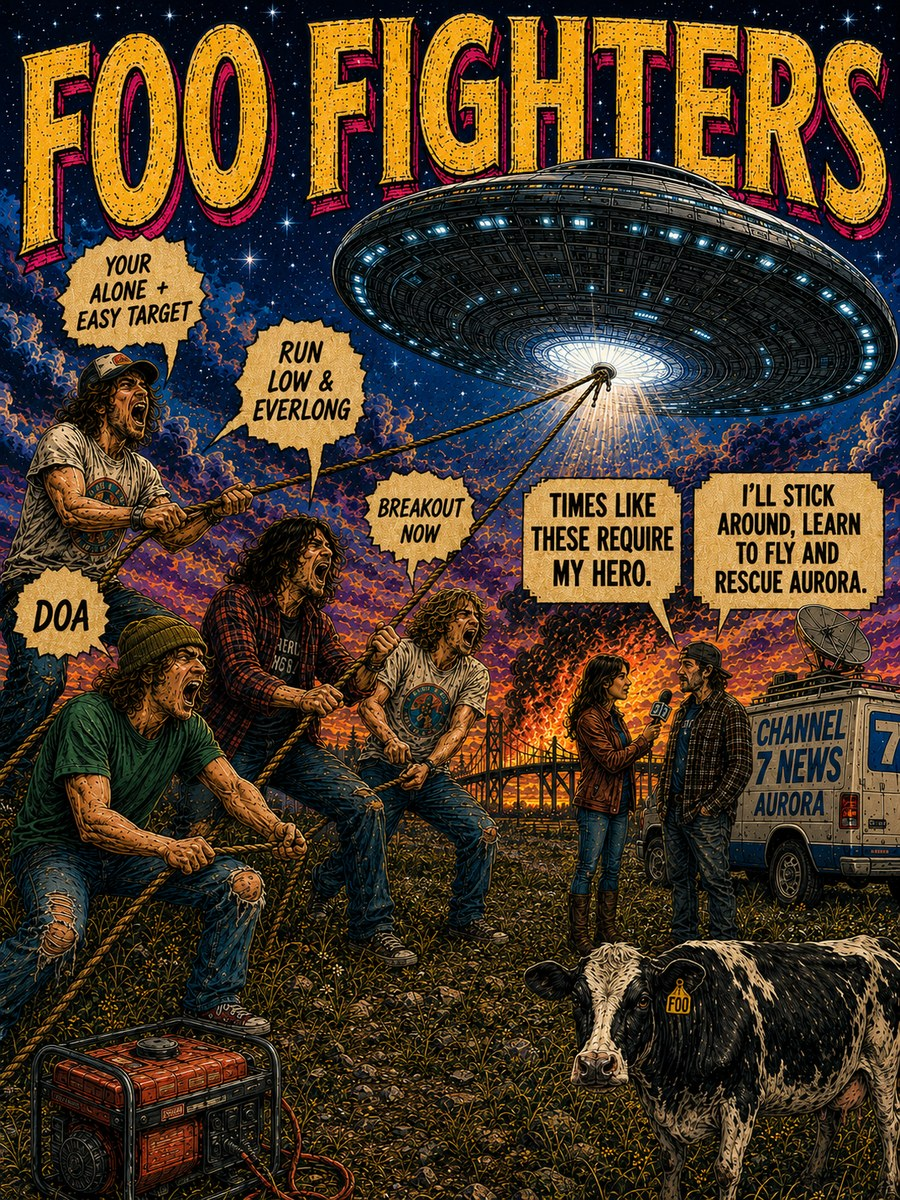
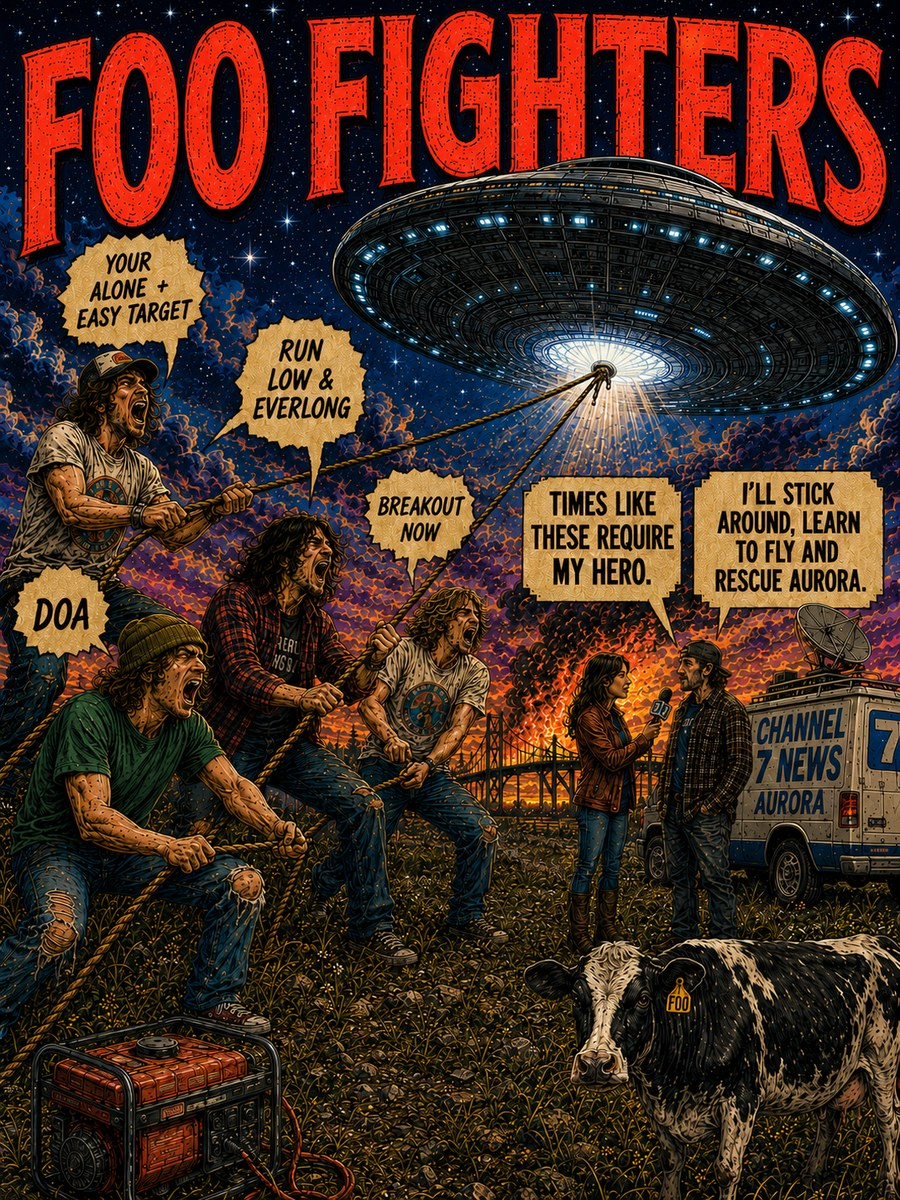
SFS: refresh + expand vault poster art from current Album Art folder (62 vaults now have posters); rebuild ART map, bump img cache-bust v5 + SW v16

diff --git a/index.html b/index.html
@@ -796,7 +796,7 @@ function coverHTML(v,label){
  var e=eraOf(v);
  var badge=v.badge==='free'?'<div class="badge free">Free</div>':'';
  if(v.sp) return '<div class="cover sptile" style="--p:'+v.sp.p+';--s:'+v.sp.s+';--t:'+v.sp.t+'">'+badge+'<div class="spcity">'+v.sp.city+'</div><div class="spteam'+(v.sp.fit?" fit":"")+'">'+v.sp.team+'</div><div class="splbl">SuperFan Vault</div></div>';
- if(ART[v.id]) return '<div class="cover artcover">'+badge+'<img class="artimg" src="'+ART[v.id]+'?v=4" alt="" draggable="false"></div>';
+ if(ART[v.id]) return '<div class="cover artcover">'+badge+'<img class="artimg" src="'+ART[v.id]+'?v=5" alt="" draggable="false"></div>';
  if(e==='neon') return streamTileHTML(v,label);
  return '<div class="cover cdcover">'+badge+'<img class="obj named cdfill" src="tile-'+v.id+'.png?v=7" alt="" draggable="false"'
   +' onerror="this.onerror=null;this.className=\'obj cdfill'+(e==='cassette'?' cassette':'')+'\';this.src=\'obj-'+e+'.png?v=7\';"></div>';
@@ -814,7 +814,7 @@ function hashStr(s){var x=5381;for(var i=0;i<s.length;i++)x=((x*33)^s.charCodeAt
 var FUN=[['#FF4FA3','255,79,163'],['#37E0FF','55,224,255'],['#9BE23B','155,226,59'],['#FF8A3D','255,138,61'],['#A56BFF','165,107,255'],['#2DD4BF','45,212,191'],['#FF5CF0','255,92,240'],['#FFC53D','255,197,61'],['#FF6B5E','255,107,94'],['#5AA9FF','90,169,255'],['#3DDB84','61,219,132'],['#C86BFF','200,107,255']];
 var COLORMAP={"taylorswift": ["#D9A3B3", "217,163,179"], "arianagrande": ["#E07A5F", "224,122,95"], "edsheeran": ["#36B0AC", "54,176,172"], "rihanna": ["#7FB3D5", "127,179,213"], "billieeilish": ["#F4F4F6", "244,244,246"], "brunomars": ["#E07A5F", "224,122,95"], "postmalone": ["#7FB3D5", "127,179,213"], "coldplay": ["#C99E4A", "201,158,74"], "dualipa": ["#C4C8CC", "196,200,204"], "ladygaga": ["#C99E4A", "201,158,74"], "maroon5": ["#C43E3E", "196,62,62"], "beyonce": ["#D9A3B3", "217,163,179"], "harrystyles": ["#C4C8CC", "196,200,204"], "onedirection": ["#A87042", "168,112,66"], "adele": ["#E07A5F", "224,122,95"], "katyperry": ["#7FB3D5", "127,179,213"], "selenagomez": ["#F4F4F6", "244,244,246"], "justintimberlake": ["#D9A3B3", "217,163,179"], "newpopqueens": ["#C4C8CC", "196,200,204"], "eminem": ["#F4F4F6", "244,244,246"], "biggie": ["#36B0AC", "54,176,172"], "morganwallen": ["#5B8A5B", "91,138,91"], "zachbryan": ["#F4F4F6", "244,244,246"], "lukecombs": ["#36B0AC", "54,176,172"], "chrisstapleton": ["#E07A5F", "224,122,95"], "lukebryan": ["#7FB3D5", "127,179,213"], "jasonaldean": ["#C99E4A", "201,158,74"], "jellyroll": ["#C43E3E", "196,62,62"], "timmcgraw": ["#C4C8CC", "196,200,204"], "kennychesney": ["#A87042", "168,112,66"], "codyjohnson": ["#D9A3B3", "217,163,179"], "carrieunderwood": ["#C99E4A", "201,158,74"], "ellalangley": ["#D9A3B3", "217,163,179"], "shaboozey": ["#5B8A5B", "91,138,91"], "laineywilson": ["#E07A5F", "224,122,95"], "faithhill": ["#7FB3D5", "127,179,213"], "rhcp": ["#C43E3E", "196,62,62"], "metallica": ["#A87042", "168,112,66"], "nirvana": ["#5B8A5B", "91,138,91"], "greenday": ["#C43E3E", "196,62,62"], "oasis": ["#E07A5F", "224,122,95"], "foo": ["#A87042", "168,112,66"], "pearljam": ["#5B8A5B", "91,138,91"], "smashingpumpkins": ["#C43E3E", "196,62,62"], "stp": ["#A87042", "168,112,66"], "ate": ["#5B8A5B", "91,138,91"], "queen": ["#7FB3D5", "127,179,213"], "beatles": ["#C99E4A", "201,158,74"], "fleetwoodmac": ["#C43E3E", "196,62,62"], "stones": ["#C4C8CC", "196,200,204"], "ccr": ["#A87042", "168,112,66"], "bonjovi": ["#C43E3E", "196,62,62"], "bowie": ["#D9A3B3", "217,163,179"], "u2": ["#5B8A5B", "91,138,91"], "ledzeppelin": ["#A87042", "168,112,66"], "billyjoel": ["#F4F4F6", "244,244,246"], "springsteen": ["#36B0AC", "54,176,172"], "eagles": ["#E07A5F", "224,122,95"], "hendrix": ["#7FB3D5", "127,179,213"], "tompetty": ["#C99E4A", "201,158,74"], "thewho": ["#5B8A5B", "91,138,91"], "gratefuldead": ["#C43E3E", "196,62,62"], "dmb": ["#C4C8CC", "196,200,204"], "fthc": ["#A87042", "168,112,66"]};
 var SDATA={"coldplay":{"song":"Yellow","lore":"London, England","album":"Parachutes","last":"Martin"},"maroon5":{"song":"Sugar","lore":"Los Angeles, CA","album":"Songs About Jane","last":"Levine"},"dmb":{"song":"Ants Marching","lore":"Charlottesville, VA","album":"Under the Table and Dreaming","last":"Matthews"},"fthc":{"song":"Recovery","lore":"Winchester, England","album":"Sleep Is for the Week","last":"Turner"},"pearljam":{"song":"Even Flow","lore":"Seattle, WA","album":"Ten","last":"Vedder"},"nirvana":{"song":"Smells Like Teen Spirit","lore":"Aberdeen, WA","album":"Bleach","last":"Cobain"},"foo":{"song":"Everlong","lore":"Seattle, WA","album":"The Colour and the Shape","last":"Grohl"},"springsteen":{"song":"Born to Run","lore":"Freehold, NJ","album":"Greetings from Asbury Park, N.J.","last":"Springsteen"},"grunge90s":{"song":"Smells Like Teen Spirit","lore":"Seattle, WA","album":"Nevermind","last":"Cobain"},"taylorswift": {"song": "Shake It Off", "lore": "Reading, PA", "album": "1989", "last": "Swift"}, "arianagrande": {"song": "7 Rings", "lore": "Boca Raton, FL", "album": "Thank U, Next", "last": "Grande"}, "edsheeran": {"song": "Shape of You", "lore": "Halifax, England", "album": "÷ Divide", "last": "Sheeran"}, "rihanna": {"song": "Umbrella", "lore": "Saint Michael, Barbados", "album": "Good Girl Gone Bad", "last": "Rihanna"}, "billieeilish": {"song": "Bad Guy", "lore": "Los Angeles, CA", "album": "When We Fall Asleep", "last": "Eilish"}, "brunomars": {"song": "24K Magic", "lore": "Honolulu, HI", "album": "24K Magic", "last": "Mars"}, "postmalone": {"song": "Circles", "lore": "Syracuse, NY", "album": "Hollywood's Bleeding", "last": "Malone"}, "dualipa": {"song": "Levitating", "lore": "London, England", "album": "Future Nostalgia", "last": "Lipa"}, "ladygaga": {"song": "Bad Romance", "lore": "New York, NY", "album": "The Fame Monster", "last": "Gaga"}, "beyonce": {"song": "Single Ladies", "album": "Sasha Fierce", "last": "Knowles"}, "harrystyles": {"song": "As It Was", "album": "Harry's House", "last": "Styles"}, "onedirection": {"song": "Story of My Life", "album": "Midnight Memories", "last": "Direction"}, "adele": {"song": "Rolling in the Deep", "album": "21", "last": "Adkins"}, "katyperry": {"song": "Firework", "album": "Teenage Dream", "last": "Perry"}, "selenagomez": {"song": "Lose You to Love Me", "album": "Rare", "last": "Gomez"}, "newpopqueens": {"song": "Feather", "album": "Coronation", "last": "Queens"}, "morganwallen": {"song": "Last Night", "album": "One Thing at a Time", "last": "Wallen"}, "zachbryan": {"song": "Revival", "album": "American Heartbreak", "last": "Bryan"}, "lukecombs": {"song": "Beautiful Crazy", "album": "This One's for You", "last": "Combs"}, "chrisstapleton": {"song": "Tennessee Whiskey", "album": "Traveller", "last": "Stapleton"}, "lukebryan": {"song": "Country Girl", "album": "Tailgates & Tanlines", "last": "Bryan"}, "jasonaldean": {"song": "Dirt Road Anthem", "album": "My Kinda Party", "last": "Aldean"}, "jellyroll": {"song": "Need a Favor", "album": "Whitsitt Chapel", "last": "Roll"}, "codyjohnson": {"song": "'Til You Can't", "album": "Human", "last": "Johnson"}, "carrieunderwood": {"song": "Before He Cheats", "album": "Some Hearts", "last": "Underwood"}, "ellalangley": {"song": "You Look Like You Love Me", "album": "Hungover", "last": "Langley"}, "shaboozey": {"song": "A Bar Song", "album": "Where I've Been", "last": "Shaboozey"}, "laineywilson": {"song": "Heart Like a Truck", "album": "Bell Bottom Country", "last": "Wilson"}};
-var ART={grunge90s:'art-grunge90s.jpg',taylorswift:'art-taylorswift.jpg',dmb:'art-dmb.jpg',fthc:'art-fthc.jpg',pearljam:'art-pearljam.jpg',nirvana:'art-nirvana.jpg',foo:'art-foo.jpg',springsteen:'art-springsteen.jpg',billieeilish:'art-billieeilish.jpg',edsheeran:'art-edsheeran.jpg',rihanna:'art-rihanna.jpg',arianagrande:'art-arianagrande.jpg',brunomars:'art-brunomars.jpg',postmalone:'art-postmalone.jpg',dualipa:'art-dualipa.jpg',maroon5:'art-maroon5.jpg',coldplay:'art-coldplay.jpg',ladygaga:'art-ladygaga.jpg',kidstoybox:'art-kidstoybox.jpg',summerbeach:'art-summerbeach.jpg'};
+var ART={adele:'art-adele.jpg',arianagrande:'art-arianagrande.jpg',ate:'art-ate.jpg',beatles:'art-beatles.jpg',beyonce:'art-beyonce.jpg',biggie:'art-biggie.jpg',billieeilish:'art-billieeilish.jpg',billyjoel:'art-billyjoel.jpg',bonjovi:'art-bonjovi.jpg',bowie:'art-bowie.jpg',brunomars:'art-brunomars.jpg',carrieunderwood:'art-carrieunderwood.jpg',ccr:'art-ccr.jpg',chrisstapleton:'art-chrisstapleton.jpg',coldplay:'art-coldplay.jpg',dmb:'art-dmb.jpg',dualipa:'art-dualipa.jpg',eagles:'art-eagles.jpg',edsheeran:'art-edsheeran.jpg',ellalangley:'art-ellalangley.jpg',eminem:'art-eminem.jpg',faithhill:'art-faithhill.jpg',fleetwoodmac:'art-fleetwoodmac.jpg',foo:'art-foo.jpg',fthc:'art-fthc.jpg',greenday:'art-greenday.jpg',grunge90s:'art-grunge90s.jpg',harrystyles:'art-harrystyles.jpg',jasonaldean:'art-jasonaldean.jpg',jellyroll:'art-jellyroll.jpg',justintimberlake:'art-justintimberlake.jpg',katyperry:'art-katyperry.jpg',kennychesney:'art-kennychesney.jpg',kidstoybox:'art-kidstoybox.jpg',ladygaga:'art-ladygaga.jpg',ledzeppelin:'art-ledzeppelin.jpg',lukebryan:'art-lukebryan.jpg',lukecombs:'art-lukecombs.jpg',maroon5:'art-maroon5.jpg',metallica:'art-metallica.jpg',morganwallen:'art-morganwallen.jpg',nirvana:'art-nirvana.jpg',oasis:'art-oasis.jpg',onedirection:'art-onedirection.jpg',pearljam:'art-pearljam.jpg',postmalone:'art-postmalone.jpg',queen:'art-queen.jpg',rhcp:'art-rhcp.jpg',rihanna:'art-rihanna.jpg',selenagomez:'art-selenagomez.jpg',shaboozey:'art-shaboozey.jpg',smashingpumpkins:'art-smashingpumpkins.jpg',springsteen:'art-springsteen.jpg',stones:'art-stones.jpg',stp:'art-stp.jpg',summerbeach:'art-summerbeach.jpg',taylorswift:'art-taylorswift.jpg',thewho:'art-thewho.jpg',timmcgraw:'art-timmcgraw.jpg',tompetty:'art-tompetty.jpg',u2:'art-u2.jpg',zachbryan:'art-zachbryan.jpg'};
 function colorOf(v){var p=COLORMAP[v.id]||['#37E0FF','55,224,255'];return {acc:p[0],tint:p[1]};}
 function streamTileHTML(v,label){ var rk=colorOf(v); var d=SDATA[v.id]||{song:'Greatest Hits',album:'Hits',lore:'',last:v.name.split(' ').pop()}; return '<div class="cover scard" style="--acc:'+rk.acc+';--tint:'+rk.tint+'">'+'<div class="scart">'+'<div class="gcard gsong"><div class="typ">🎵 Song</div><div class="q">'+d.song+'</div></div>'+'<div class="gcard glore"><div class="typ">📖 Lore</div><div class="q">'+d.last+'</div></div>'+'<div class="gcard galbum"><div class="typ">💿 Album</div><div class="q">'+d.album+'</div></div>'+'</div>'+'<div class="scname">'+v.name+'</div>'+'<div class="scbar"><span></span></div><div class="scctl">'+SFSCTL+'</div></div>'; }
 function streamMiniHTML(v){ var rk=rankOf(v); return '<div class="cover scover" style="--acc:'+rk.acc+';--tint:'+rk.tint+'">'+sBadge(v)+'<div class="sghost">'+v.name.toUpperCase()+'</div><div class="spill">'+rk.lab+'</div><div class="splay">'+PLAYSVG+'</div></div>'; }
@@ -969,7 +969,7 @@ function v5sub(){ var s=document.getElementById('v5sub'); if(s) s.textContent=V5
 function toggleCust(){ var c=document.getElementById('v5cust'), k=document.getElementById('v5carat'); if(!c) return; var open=c.classList.toggle('open'); if(k) k.textContent=open?'▴':'▾'; if(open) setTimeout(function(){c.scrollIntoView({behavior:'smooth',block:'nearest'});},60); }
 function selEd(n){ V5ED=n; ['Standard','Deluxe'].forEach(function(x){var b=document.getElementById('ed-'+x); if(b) b.className='v5opt'+(x===n?' sel':'');}); v5sub(); }
 function selClue(n){ V5CLUE=n; ['Beginner','Casual','Superfan'].forEach(function(x){var b=document.getElementById('cl-'+x); if(b) b.className='v5cl'+(x===n?' sel':'');}); v5sub(); }
-function flipFront(v){ if(v.sp) return '<div class="ffront spfront" style="--p:'+v.sp.p+';--s:'+v.sp.s+';--t:'+v.sp.t+'"><div class="spc">'+v.sp.city+'</div><div class="spt'+(v.sp.fit?" fit":"")+'">'+v.sp.team+'</div><div class="spl">SuperFan Vault</div></div>'; if(ART[v.id]) return '<div class="ffront"><img class="ffart" src="'+ART[v.id]+'?v=4" alt=""></div>'; var rk=artistColor(v); return '<div class="ffront" style="--acc:'+rk.acc+';--tint:'+rk.tint+'"><div class="ffname">'+v.name.toUpperCase()+'</div></div>'; }
+function flipFront(v){ if(v.sp) return '<div class="ffront spfront" style="--p:'+v.sp.p+';--s:'+v.sp.s+';--t:'+v.sp.t+'"><div class="spc">'+v.sp.city+'</div><div class="spt'+(v.sp.fit?" fit":"")+'">'+v.sp.team+'</div><div class="spl">SuperFan Vault</div></div>'; if(ART[v.id]) return '<div class="ffront"><img class="ffart" src="'+ART[v.id]+'?v=5" alt=""></div>'; var rk=artistColor(v); return '<div class="ffront" style="--acc:'+rk.acc+';--tint:'+rk.tint+'"><div class="ffname">'+v.name.toUpperCase()+'</div></div>'; }
 var IC_SONG='<svg viewBox="0 0 24 24" fill="none" stroke="currentColor" stroke-width="1.7"><path d="M9 18V6l10-2v12" stroke-linecap="round"/><circle cx="6.5" cy="18" r="2.5"/><circle cx="16.5" cy="16" r="2.5"/></svg>';
 var IC_ALB='<svg viewBox="0 0 24 24" fill="none" stroke="currentColor" stroke-width="1.7"><circle cx="12" cy="12" r="9"/><circle cx="12" cy="12" r="2.3"/></svg>';
 var IC_LORE='<svg viewBox="0 0 24 24" fill="none" stroke="currentColor" stroke-width="1.7" stroke-linecap="round" stroke-linejoin="round"><path d="M4 5h7a2 2 0 012 2v12a2 2 0 00-2-2H4z"/><path d="M20 5h-7a2 2 0 00-2 2v12a2 2 0 012-2h7z"/></svg>';
@@ -1013,7 +1013,7 @@ function openVault(id){
  var v=byId(id); if(!v) return; V5ED='Standard'; V5CLUE='Beginner'; V5SPORT=false;
  if(v.sp) return openSportsVault(v);
  var rk=artistColor(v); var d=SDATA[v.id]||{song:'Songs',last:v.name.split(' ').pop(),album:'Albums'};
- var poster = ART[v.id] ? '<div class="v5poster"><img src="'+ART[v.id]+'?v=4" alt=""></div>'
+ var poster = ART[v.id] ? '<div class="v5poster"><img src="'+ART[v.id]+'?v=5" alt=""></div>'
                         : '<div class="v5poster v5noart"><span>'+v.name.toUpperCase()+'</span></div>';
  var fan='<div class="vkfan">'
    +'<div class="vksamp vs1"><div class="typ">🎵 Song</div><div class="q">'+d.song+'</div><div class="smp">Sample</div></div>'

diff --git a/sw.js b/sw.js
@@ -1,4 +1,4 @@
-var CACHE='sfs-v15';
+var CACHE='sfs-v16';
 var ASSETS=['/','/index.html','/play.html','/manifest.webmanifest','/icon-192.png','/icon-512.png','/apple-touch-icon.png'];
 self.addEventListener('install',function(e){ e.waitUntil(caches.open(CACHE).then(function(c){return c.addAll(ASSETS).catch(function(){});}).then(function(){return self.skipWaiting();})); });
 self.addEventListener('activate',function(e){ e.waitUntil(caches.keys().then(function(keys){return Promise.all(keys.map(function(k){if(k!==CACHE)return caches.delete(k);}));}).then(function(){return self.clients.claim();})); });
